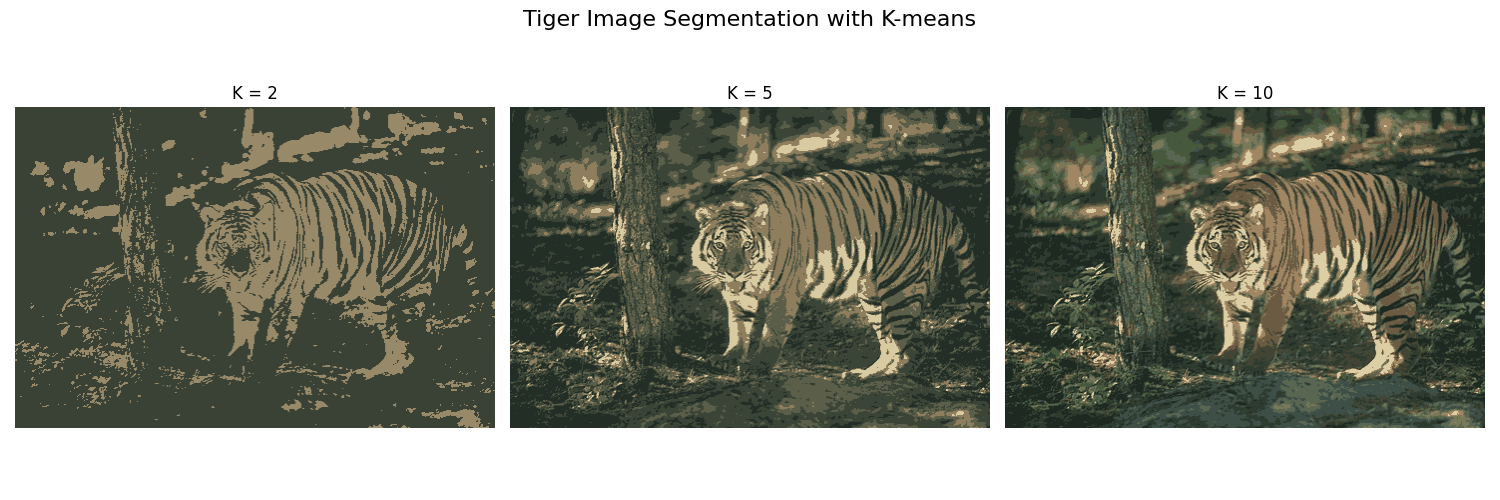
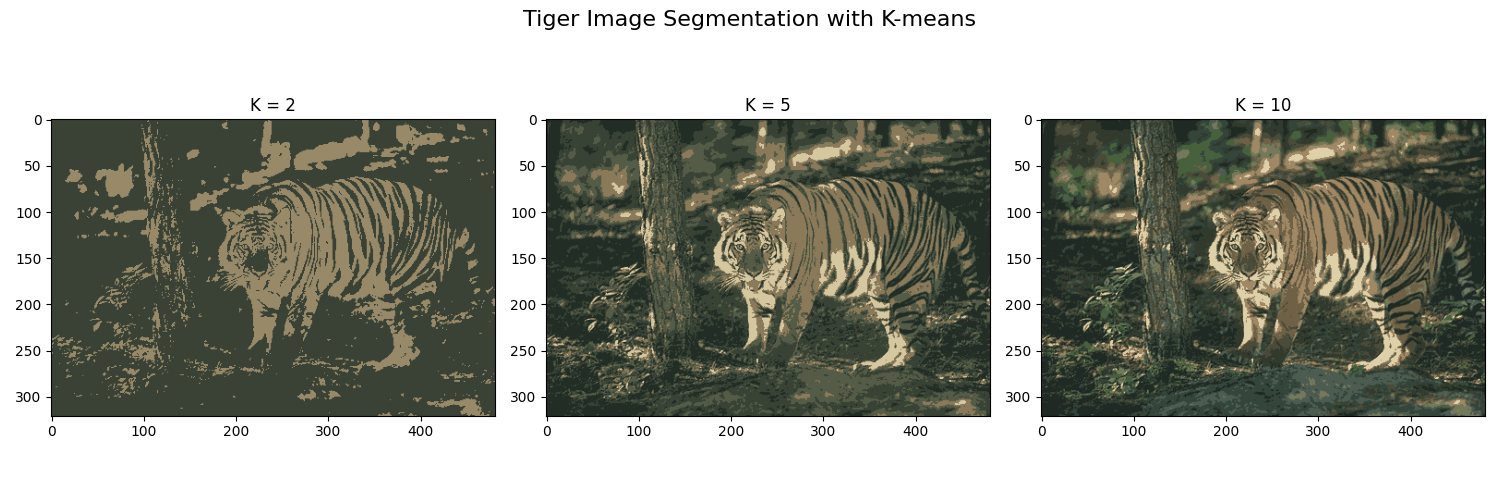
modify assignment 2

diff --git a/assignment2/assignment2.py b/assignment2/assignment2.py
@@ -2,44 +2,45 @@ import numpy as np
 import matplotlib.pyplot as plt
 from PIL import Image
 
-tiger_path = "assignment2/tiger.jpg"
+img_path = "assignment2/tiger.jpg"
 
 # K-means parameters setting
-k_values = [2, 5, 10]
-max_iterations = 10
+k = [2, 5, 10]
+n = 10 # max iteration
 
 # Process tiger image
-img = Image.open(tiger_path)
+img = Image.open(img_path)
 img_array = np.array(img)
-h, w, c = img_array.shape
+height, width, channel = img_array.shape
 
 # result figure setting
 plt.figure(figsize=(15, 5))
 plt.suptitle("Tiger Image Segmentation with K-means", fontsize=16)
 
-# Process with different k values
-for i, k in enumerate(k_values):
-    print(f"Starting k-means with k={k}")
-    
+# Process with different k
+for i, k in enumerate(k):
     # Reshape image to (n_pixels, n_features)
-    img_data = img_array.reshape(h*w, c)
+    img_data = img_array.reshape(height*width, channel)
     
     # Randomly initialize centroids
-    n_samples = img_data.shape[0]
-    centroids_indices = np.random.choice(n_samples, k, replace=False)
-    centroids = img_data[centroids_indices]
+    samples_len = img_data.shape[0]
+    randomly_picked = np.random.choice(samples_len, k, replace=False) # 중복 없이 k개의 인덱스를 무작위로 선택함
+    centroids = img_data[randomly_picked]
     
     # Iterate for clustering
-    for iteration in range(max_iterations):
-        print(f"K-means iteration {iteration+1}/{max_iterations}")
+    for j in range(n):
+        print(f"K-means iteration {j+1}/{n}")
         
         # Calculate distance each point to centroids
-        distances = np.sqrt(((img_data[:, np.newaxis, :] - centroids[np.newaxis, :, :]) ** 2).sum(axis=2))
+        distances = np.zeros((img_data.shape[0], k))
+        for c in range(k):
+            distances[:, c] = np.sqrt(np.sum((img_data - centroids[c])**2, axis=1))
+        # 각 픽셀별로 가장 가까운 centroid를 찾아서 label로 지정함.
         labels = np.argmin(distances, axis=1)
         
         # Update centroids
-        new_centroids = np.array([img_data[labels == j].mean(axis=0) if np.sum(labels == j) > 0 
-                                 else centroids[j] for j in range(k)])
+        new_centroids = np.array([img_data[labels == c].mean(axis=0) if np.sum(labels == c) > 0 
+                                 else centroids[c] for c in range(k)])
         
         # case condition
         if np.all(centroids == new_centroids):
@@ -48,13 +49,12 @@ for i, k in enumerate(k_values):
         centroids = new_centroids
     
     # Mapping each pixel to its cluster center
-    segmented_img = centroids[labels].reshape(h, w, c).astype(np.uint8)
+    segmented_img = centroids[labels].reshape(height, width, channel).astype(np.uint8)
     
     # Plot result
     plt.subplot(1, 3, i+1)
     plt.imshow(segmented_img)
     plt.title(f"K = {k}")
-    plt.axis('off')
 
 plt.tight_layout()
 plt.savefig("assignment2/tiger_segmentation.png")

diff --git a/assignment1/assignment1.py b/assignment1/assignment1.py
@@ -42,7 +42,6 @@ print(f"F1 Score: {f1:.4f}")
 
 # confusion matrix
 cm = confusion_matrix(y_test, y_pred)
-print(cm)
 
 # confusion matrix visualization
 plt.figure(figsize=(10, 8))
